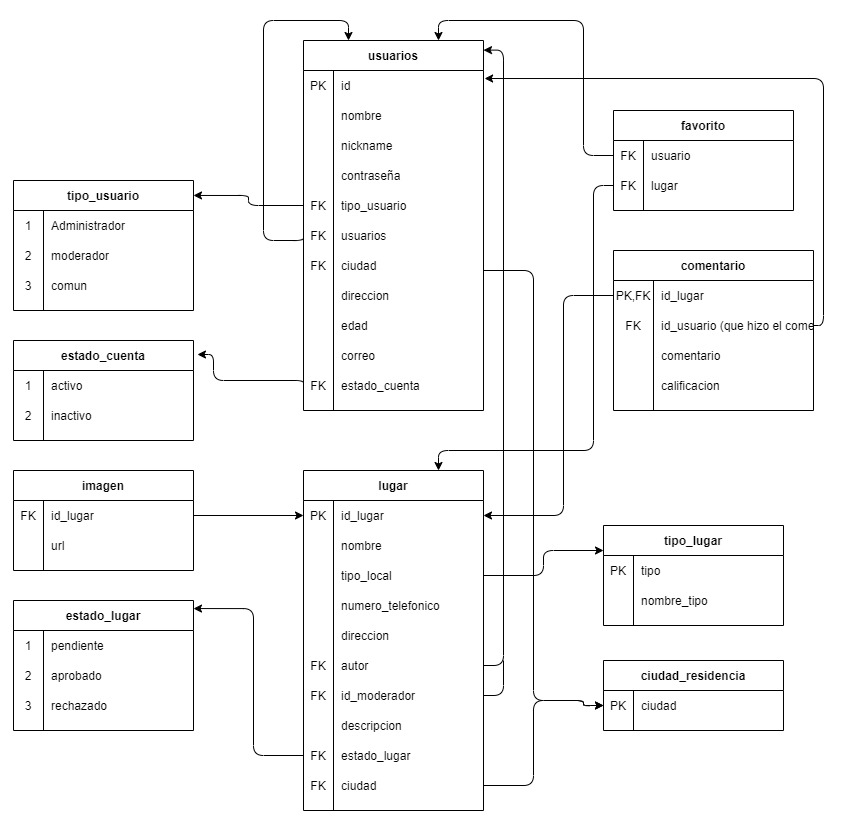
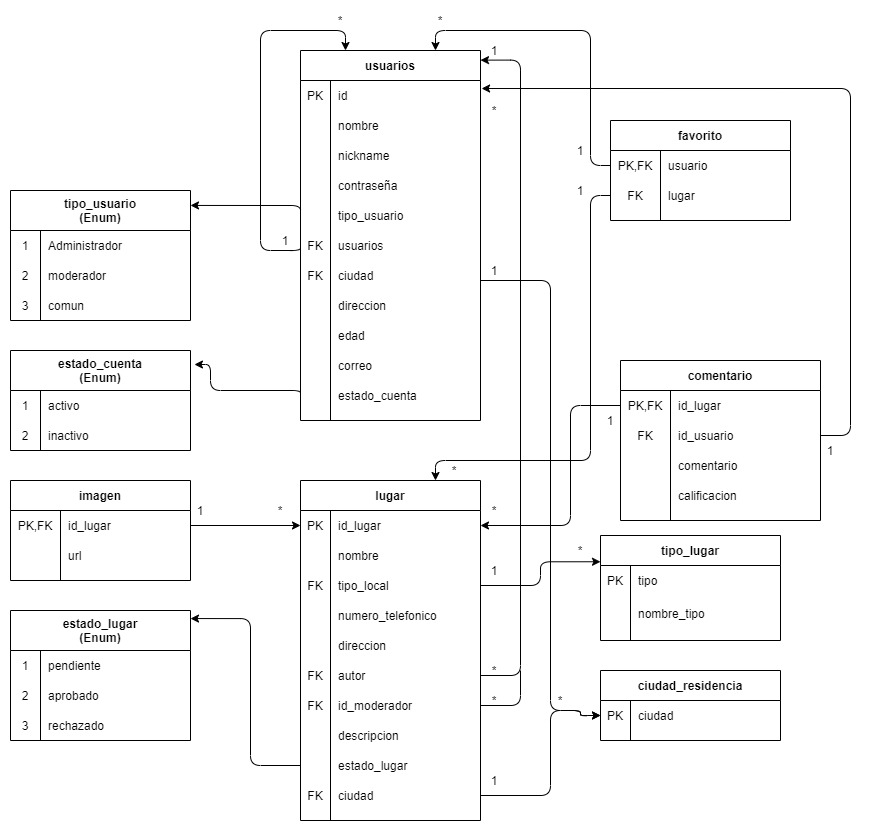
se parametrizaron los atributos, se comento el codigo y se estabecieron las relaciones

diff --git a/persistencia/src/main/java/co/edu/uniquindio/proyecto/entidades/Comentario.java b/persistencia/src/main/java/co/edu/uniquindio/proyecto/entidades/Comentario.java
@@ -1,0 +1,85 @@
+package co.edu.uniquindio.proyecto.entidades;
+
+import javax.persistence.Column;
+import javax.persistence.Entity;
+import javax.persistence.Id;
+import javax.persistence.ManyToOne;
+import java.io.Serializable;
+
+@Entity
+public class Comentario implements Serializable
+{
+    //local al que le hicieron el comentario, primary key
+    @Id
+    @ManyToOne
+    private Lugar lugar;
+
+    //usuario que hizo el comentario
+    @ManyToOne
+    private Usuario usuario;
+
+    //comentario hecho al local
+    @Column(name = "comentario", length = 150)
+    private String comentario;
+
+    //calificacion hecha al local
+    @Column(name = "calificacion", precision = 1)
+    private int calificacion;
+
+    //obtiene el local al que le hicieron el comentario
+    public Lugar getLugar() {
+        return lugar;
+    }
+
+    //pone el local al que le van a hacer el comentario
+    public void setLugar(Lugar lugar) {
+        this.lugar = lugar;
+    }
+
+    //obtiene el usuario que hizo el comentario
+    public Usuario getUsuario() {
+        return usuario;
+    }
+
+    //pone el usuario que va a hacer el comentario
+    public void setUsuario(Usuario usuario) {
+        this.usuario = usuario;
+    }
+
+    //obtiene el comentario
+    public String getComentario() {
+        return comentario;
+    }
+
+    //pone el comentario
+    public void setComentario(String comentario) {
+        this.comentario = comentario;
+    }
+
+    //obtiene la calificacion del local
+    public int getCalificacion() {
+        return calificacion;
+    }
+
+    //pone la calificacion del local
+    public void setCalificacion(int calificacion) {
+        this.calificacion = calificacion;
+    }
+
+    //map
+    @Override
+    public boolean equals(Object o) {
+        if (this == o) return true;
+        if (o == null || getClass() != o.getClass()) return false;
+
+        Comentario that = (Comentario) o;
+
+        return lugar != null ? lugar.equals(that.lugar) : that.lugar == null;
+    }
+
+    //hash
+    @Override
+    public int hashCode() {
+        return lugar != null ? lugar.hashCode() : 0;
+    }
+}

diff --git a/persistencia/src/main/java/co/edu/uniquindio/proyecto/entidades/Lugar.java b/persistencia/src/main/java/co/edu/uniquindio/proyecto/entidades/Lugar.java
@@ -54,6 +54,10 @@ public class Lugar implements Serializable
     @OneToMany(mappedBy = "lugar")
     private List<Imagen> imagenes;
 
+    //inverso de la relacion lugar-comentario
+    @OneToMany(mappedBy = "lugar")
+    private List<Comentario> comentarios;
+
     //metodo constructor de lugar
     public Lugar()
     {
@@ -178,6 +182,16 @@ public class Lugar implements Serializable
     //set del inverso de la relacion lugar-favorito
     public void setFavoritos(List<Favorito> favoritos) {
         this.favoritos = favoritos;
+    }
+
+    //get del inverso de la relacion lugar-comentario
+    public List<Comentario> getComentarios() {
+        return comentarios;
+    }
+
+    //set del inverso de la relacion lugar-comentario
+    public void setComentarios(List<Comentario> comentarios) {
+        this.comentarios = comentarios;
     }
 
     //map

diff --git a/persistencia/src/main/java/co/edu/uniquindio/proyecto/entidades/TipoLugar.java b/persistencia/src/main/java/co/edu/uniquindio/proyecto/entidades/TipoLugar.java
@@ -13,8 +13,8 @@ import java.util.List;
 public class TipoLugar implements Serializable
 {
     //codigo del tipo de local
-    @Column(name = "codigoTipoLugar", precision = 3)
     @Id
+    @Column(name = "codigoTipoLugar", precision = 3)
     private int codigoTipoLugar;
 
     //nombre del tipo de local
